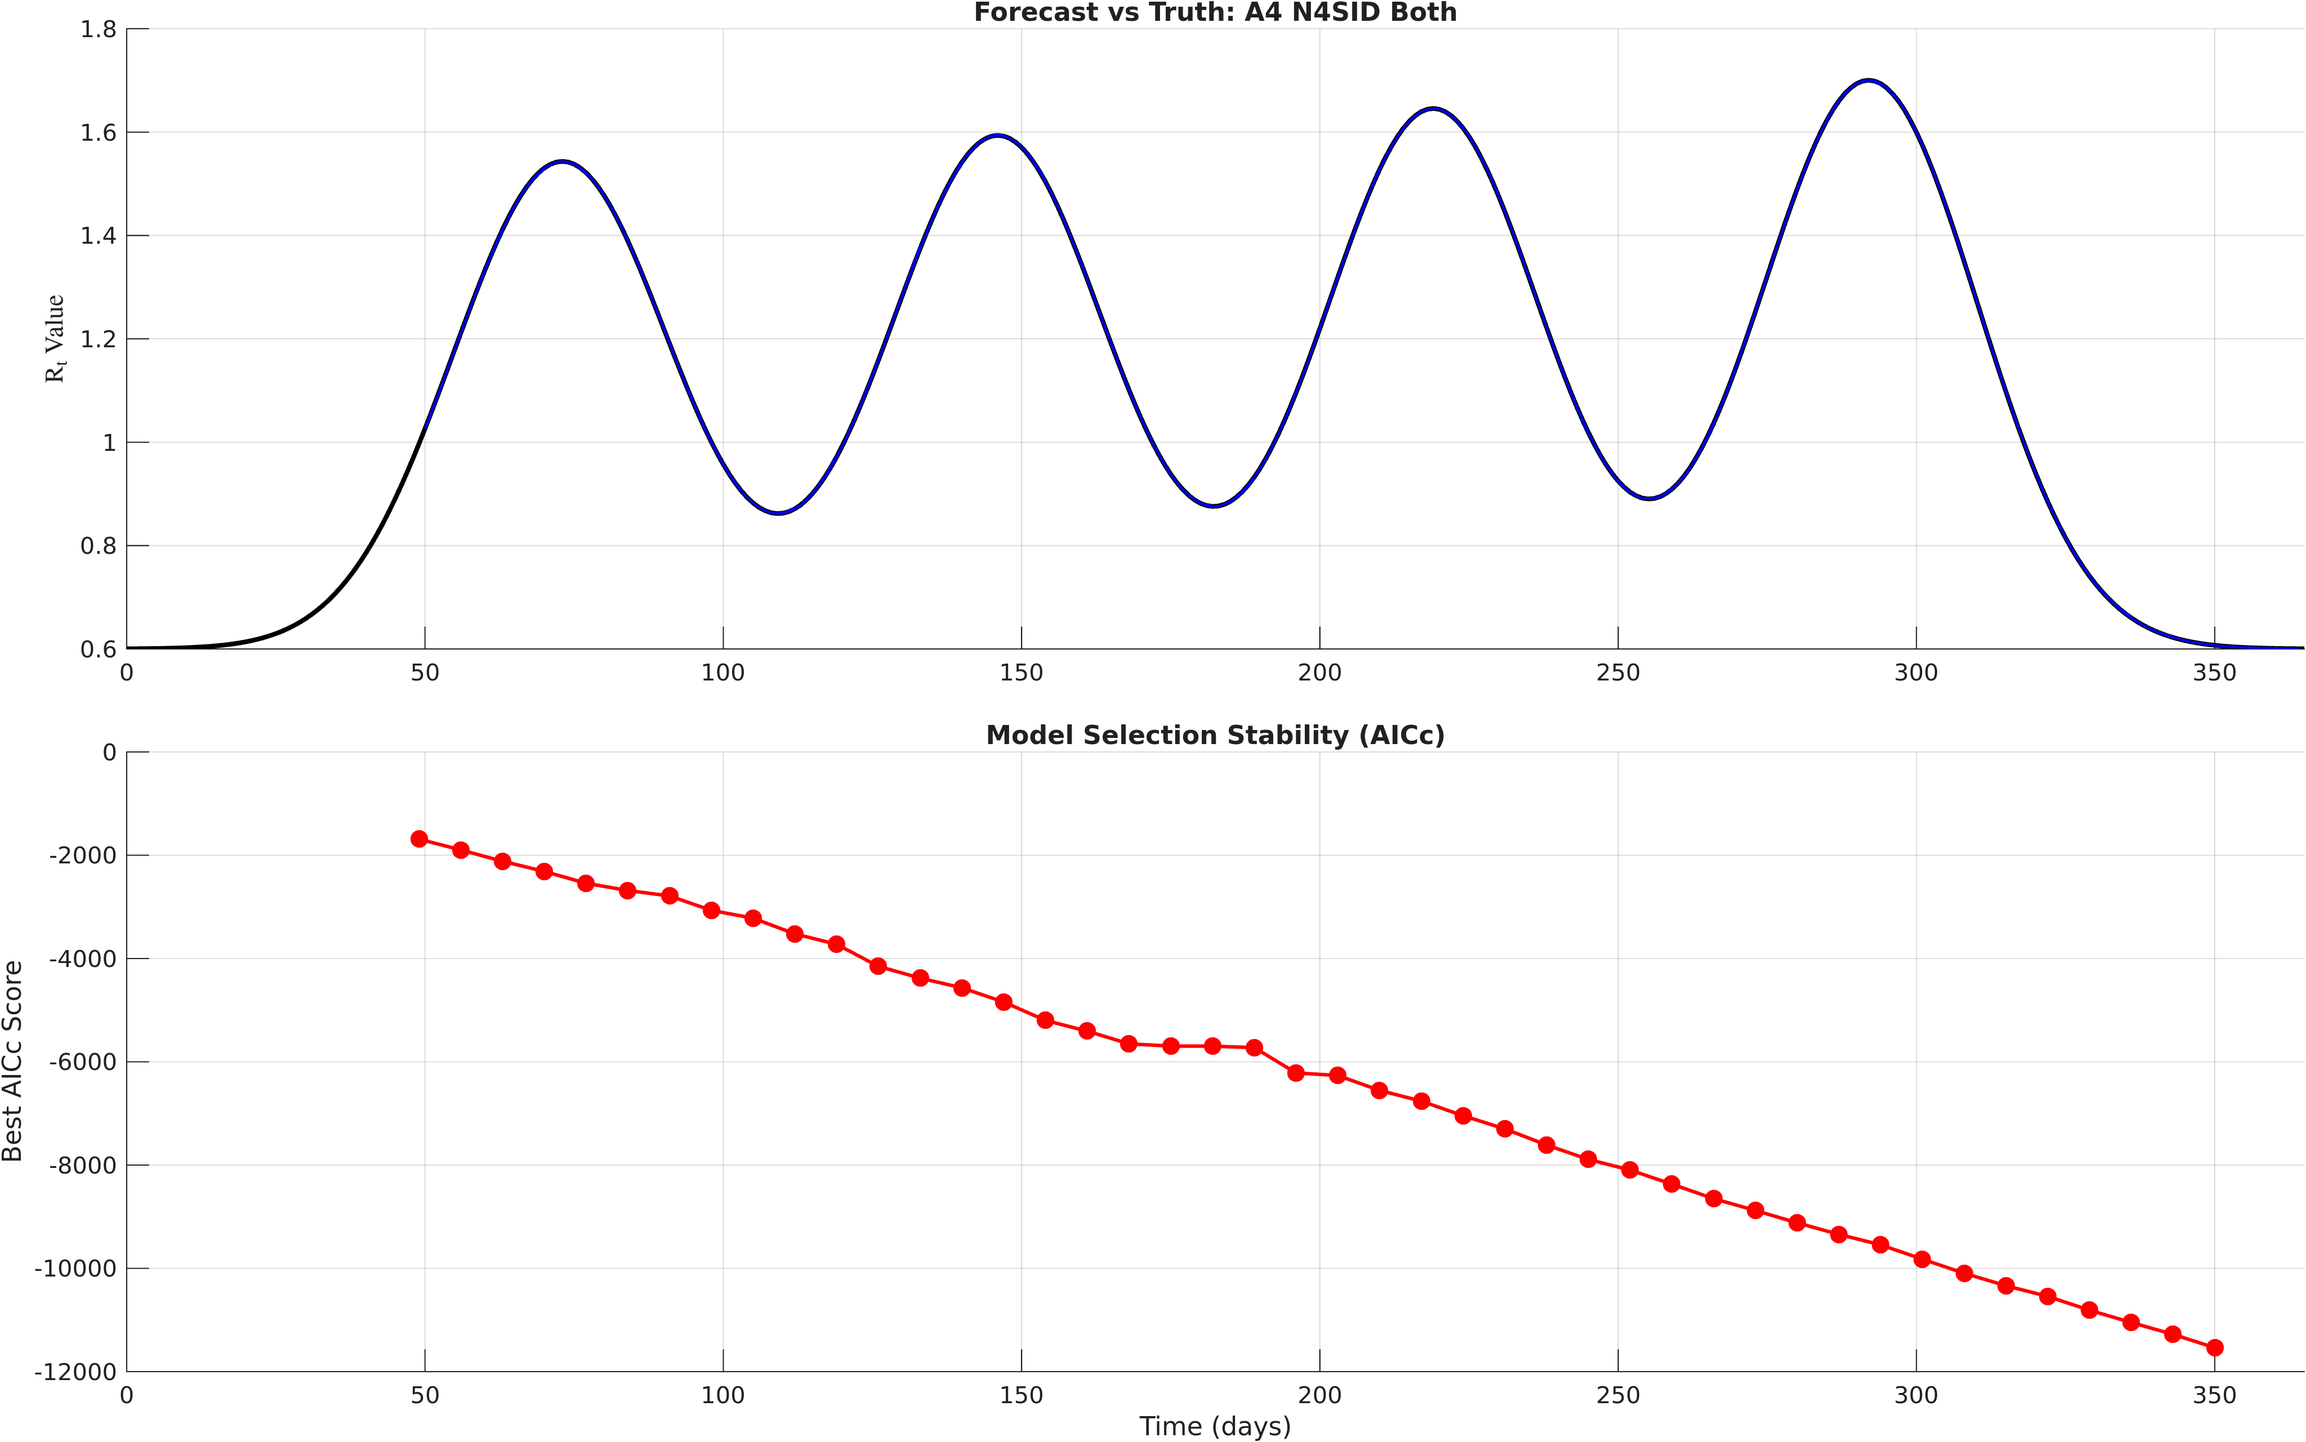
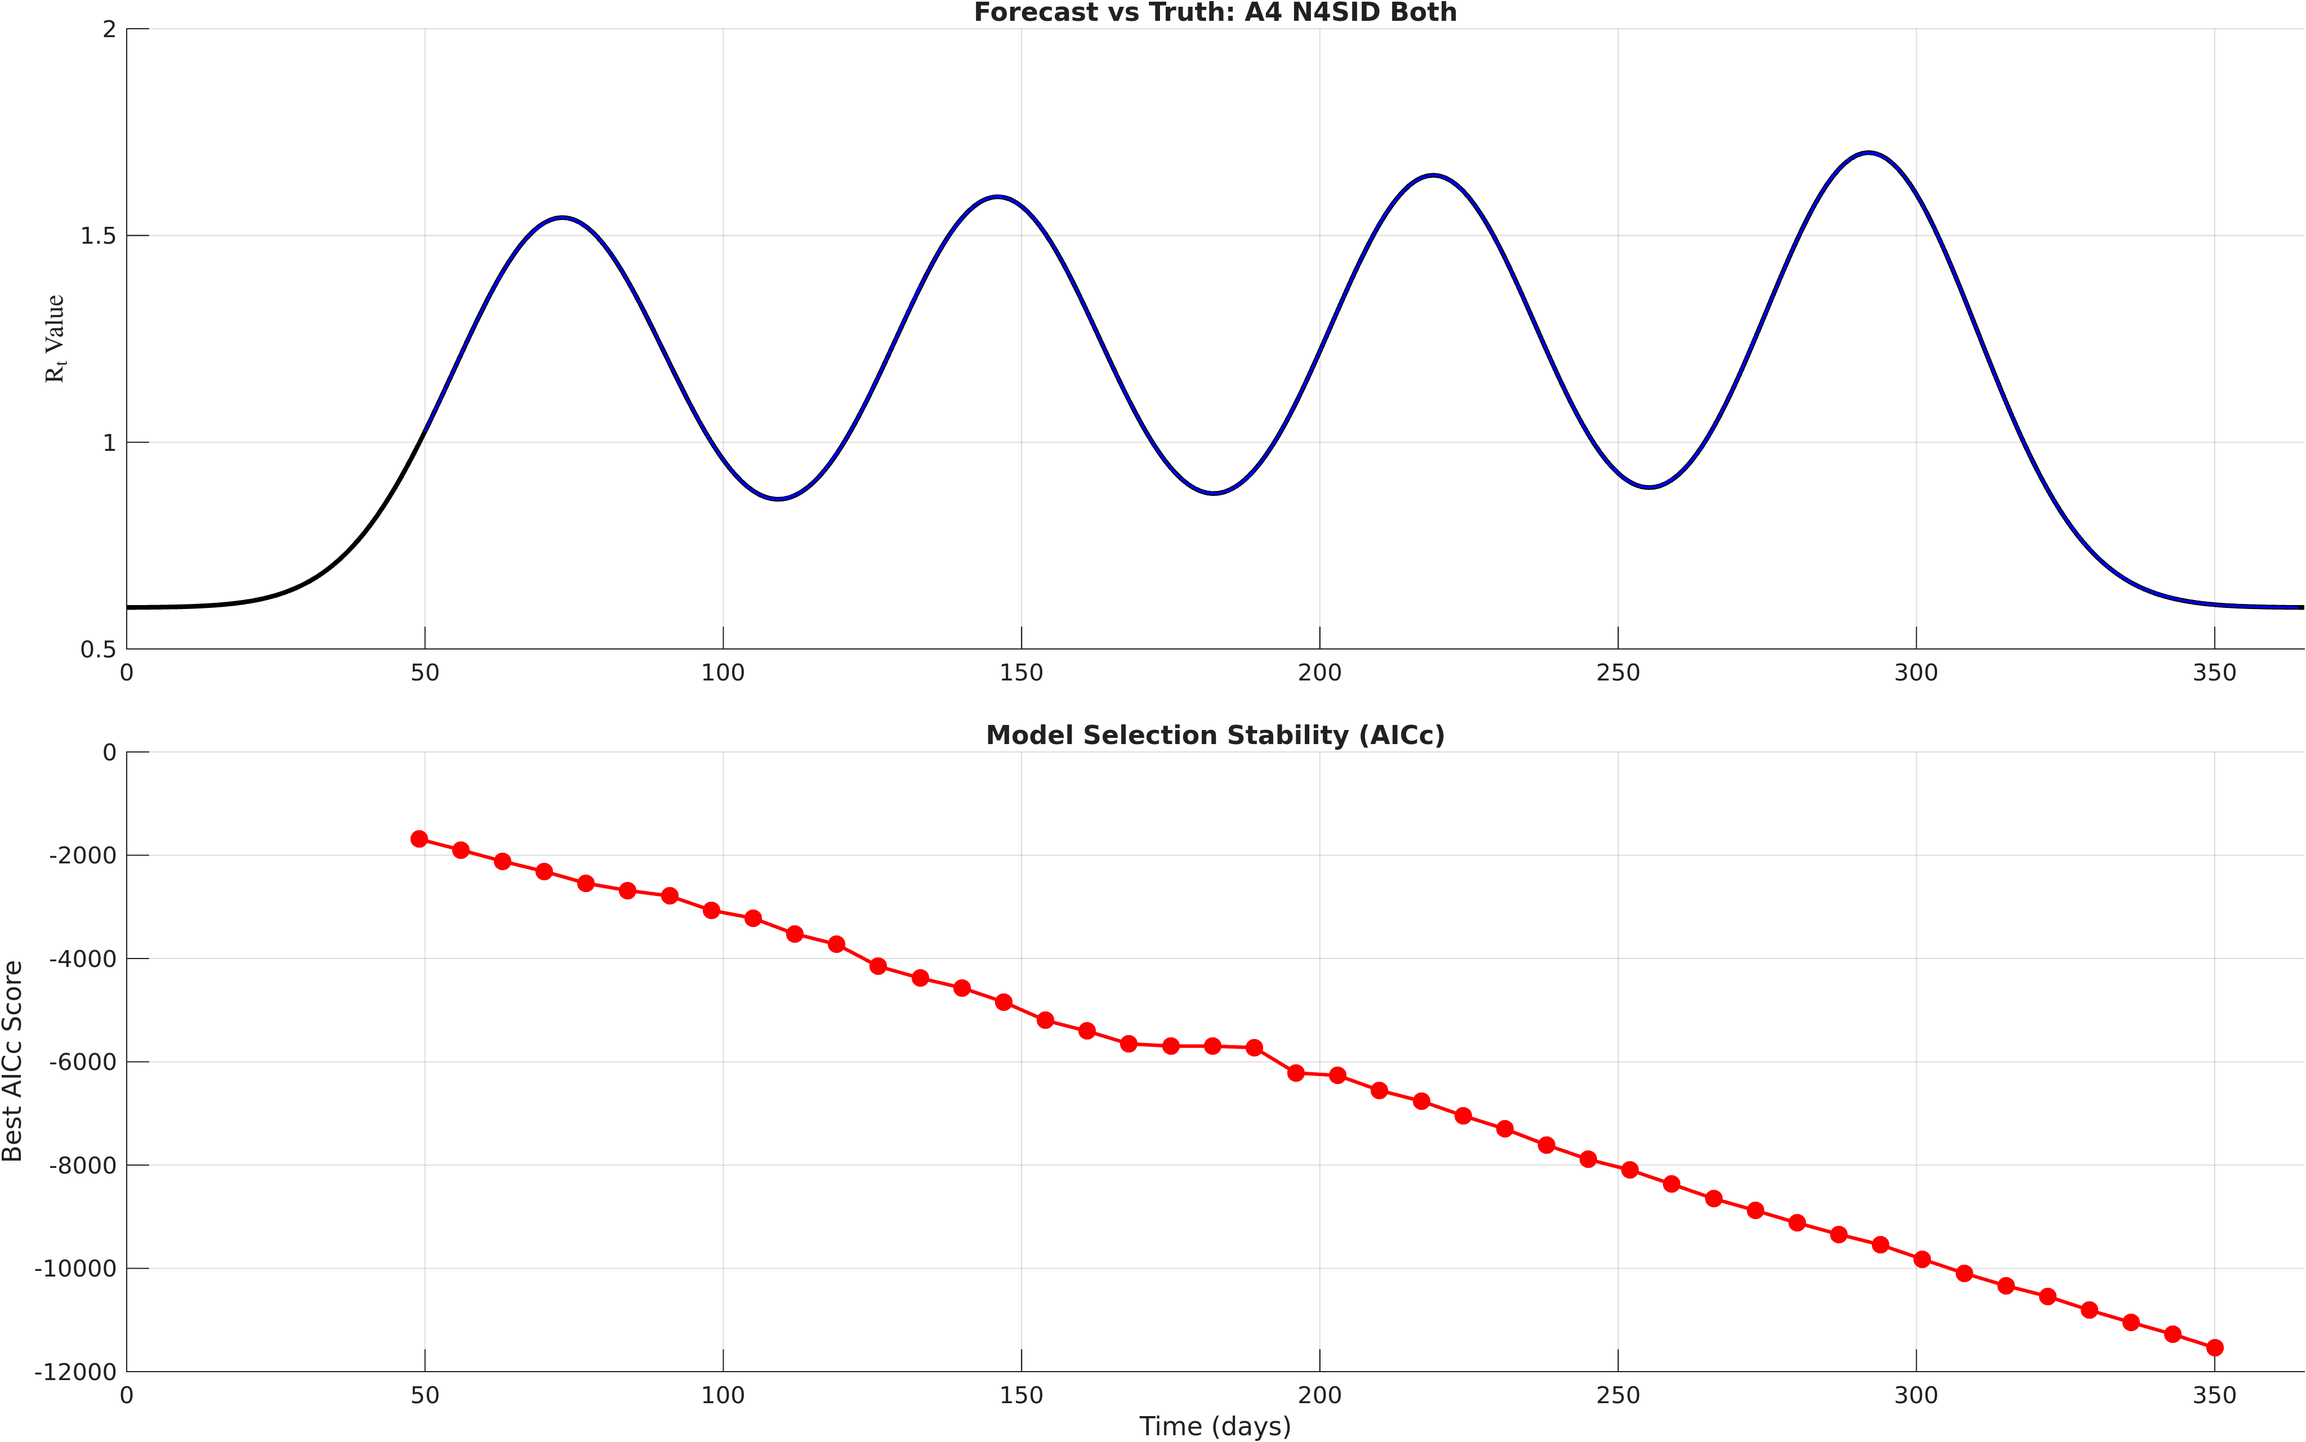
feat: Introduce a complete epidemic forecasting pipeline, including synthetic data generation, model training, evaluation, and result plotting.

diff --git a/scripts/partA_03_evaluate_models.m b/scripts/partA_03_evaluate_models.m
@@ -3,14 +3,13 @@
 %   Description:
 %       Aggregates and scores the performance of all forecasting models 
 %       generated by the unified forecast pipeline. Calculates Root Mean 
-%       Square Error (RMSE) and Mean Absolute Error (MAE) for every 
-%       expanding window, producing summary statistics and comparative 
-%       visualizations.
+%       Square Error (RMSE) for every expanding window, producing summary 
+%       statistics and comparative visualizations.
 %
 %   Workflow:
 %       1. Identify all forecast artifacts in the output directory.
 %       2. Parse filenames to extract Model Type, Exogenous Mode, and Scenario.
-%       3. Compute error metrics (RMSE, MAE) for every forecast window.
+%       3. Compute error metrics (RMSE) for every forecast window.
 %       4. Aggregate statistics to identify the optimal model configuration.
 %       5. Generate comparative boxplots via a dedicated plotting function.
 %
@@ -19,21 +18,20 @@
 % A. M. Kaahin 2026-02-19
 
 %% 1. Initialization
-clear; clc; close all;
+clear; close all; clc;
+
+fprintf('=== Model Evaluation ===\n');
 
 cfg = partA_config();
 forecastDir = cfg.output.forecast_dir;
 scoreDir    = cfg.output.score_dir;
 figDir      = cfg.output.fig_dir;
 
-% Ensure output directories exist
 if ~exist(scoreDir, 'dir'), mkdir(scoreDir); end
 if ~exist(figDir, 'dir'),   mkdir(figDir); end
 
-fprintf('Scanning for forecast results in: %s\n', forecastDir);
+fprintf('Scanning forecast directory: %s\n', forecastDir);
 
-% Pattern matches the taxonomy defined in partA_02_run_forecasts.m
-% Format: partA_02_forecast_[Scenario]_[Model]_[ExoMode].mat
 filePattern = fullfile(forecastDir, 'partA_02_forecast_*.mat');
 files       = dir(filePattern);
 
@@ -48,76 +46,67 @@ for i = 1:length(files)
     filename = files(i).name;
     fullPath = fullfile(forecastDir, filename);
     
-    % Parse Metadata from Filename
     [~, nameBody] = fileparts(filename);
     tokens = split(nameBody, '_');
     
-    % Validate filename structure before parsing
     if length(tokens) >= 6
         scenario_id = tokens{4};
         model_type  = tokens{5};
         exo_mode    = tokens{6};
     else
-        warning('Skipping file with non-standard naming: %s', filename);
+        warning('EVAL:BadNaming', 'Skipping file with non-standard naming: %s', filename);
         continue;
     end
     
-    % Load Data
     data = load(fullPath);
     if ~isfield(data, 'results')
-        warning('Skipping malformed file: %s', filename);
+        warning('EVAL:Malformed', 'Skipping malformed file: %s', filename);
         continue;
     end
     results = data.results;
     
-    % Compute Metrics per Window
     for k = 1:length(results)
         pred_Rt  = double(results(k).forecast_Rt(:));
         truth_Rt = double(results(k).truth_Rt_window(:));
         
-        % Calculate Residuals
         residuals = pred_Rt - truth_Rt;
         rmse_val  = sqrt(mean(residuals.^2));
-        mae_val   = mean(abs(residuals));
         
-        % Append to Registry
         newRow = { ...
             categorical(string(scenario_id)), ...
             categorical(string(model_type)), ...
             categorical(string(exo_mode)), ...
             results(k).window_day, ...
-            rmse_val, ...
-            mae_val ...
+            rmse_val ...
         };
         
         score_registry = [score_registry; newRow]; %#ok<AGROW>
     end
 end
 
-% Assign Standardized Variable Names
-score_registry.Properties.VariableNames = {'Scenario', 'Model', 'ExoMode', 'WindowDay', 'RMSE', 'MAE'};
+score_registry.Properties.VariableNames = {'Scenario', 'Model', 'ExoMode', 'WindowDay', 'RMSE'};
 
 fprintf('Aggregated scores for %d total forecast windows.\n', height(score_registry));
 
 %% 3. Summary Statistics
-% Group by Model Configuration (Model + ExoMode) and Scenario
 summary_stats = groupsummary(score_registry, ...
     {'Scenario', 'Model', 'ExoMode'}, ...
     {'mean', 'std', 'min', 'max'}, ...
-    {'RMSE', 'MAE'});
+    'RMSE');
 
-% Refine column names for report readability
 summary_stats.Properties.VariableNames = regexprep(summary_stats.Properties.VariableNames, ...
     {'mean_', 'std_', 'min_', 'max_'}, {'Mean_', 'Std_', 'Min_', 'Max_'});
 
-fprintf('\n=== PERFORMANCE SUMMARY (RMSE) ===\n');
+fprintf('\n  [ Performance Summary (RMSE) ]\n');
 disp(summary_stats(:, {'Scenario', 'Model', 'ExoMode', 'Mean_RMSE', 'Std_RMSE'}));
 
-% Persist Summary Table
 summaryFile = fullfile(scoreDir, 'partA_03_model_performance_summary.csv');
 writetable(summary_stats, summaryFile);
 fprintf('Summary statistics saved to: %s\n', summaryFile);
 
 %% 4. Visualization
-% Delegate visualization to dedicated plotting function
 plot_model_performance(score_registry, cfg);
+
+out_path = fullfile(cfg.output.fig_dir, 'partA_03_performance_boxplot.png');
+fprintf('Performance visualization saved to: %s\n', out_path);
+fprintf('=== Evaluation Complete ===\n\n');

diff --git a/scripts/partA_02_run_forecasts.m b/scripts/partA_02_run_forecasts.m
@@ -5,7 +5,8 @@
 %       ground truth data. Evaluates statistical (ARIMA, ARIMAX) and 
 %       State-Space (N4SID, SSEST) models. Future exogenous covariates 
 %       (Susceptible and Infected populations) are projected dynamically 
-%       using a deterministic compartmental solver to ensure causality.
+%       using the deterministic compartmental solver ('uds') to ensure 
+%       causality.
 %
 %   Workflow:
 %       1. Initialize experiment and model configurations.
@@ -18,16 +19,18 @@
 
 % A. M. Kaahin 2026-02-19
 
-%% Initialization
-clear; clc; close all;
+%% 1. Initialization
+clear; close all; clc;
 
-MODEL_TYPE = 'ARIMA'; 
+fprintf('=== Forecast Pipeline Execution ===\n');
+
+MODEL_TYPE = 'N4SID'; 
 EXO_MODE   = 'Both';    
 
 EXO_MODE = validate_configuration(MODEL_TYPE, EXO_MODE);
-fprintf('Starting %s forecast pipeline (Mode: %s)\n', MODEL_TYPE, EXO_MODE);
+fprintf('Configuration: Model = %s | Exogenous Mode = %s\n', MODEL_TYPE, EXO_MODE);
 
-%% Configuration and Grid Setup
+%% 2. Configuration and Grid Setup
 cfg      = partA_config(); 
 dataDir  = cfg.output.data_dir;     
 saveDir  = cfg.output.forecast_dir; 
@@ -35,12 +38,12 @@ fileList = dir(fullfile(dataDir, '*.mat'));
 
 switch MODEL_TYPE
     case 'ARIMA'
-        [P, D, Q] = ndgrid(0:14, [0, 1], 0:2);
+        [P, D, Q] = ndgrid(0:3, [0, 1], 0:2);
         candidate_models = [P(:), D(:), Q(:)];
         table_headers    = {'p', 'd', 'q', 'Times_Selected'};
         
     case 'ARIMAX'
-        [P, D, Q, NB, NK] = ndgrid(0:14, [0, 1], 0:2, 1:2, 1);
+        [P, D, Q, NB, NK] = ndgrid(0:3, [0, 1], 0:2, 1:2, 1);
         candidate_models  = [P(:), D(:), Q(:), NB(:), NK(:)];
         table_headers     = {'p', 'd', 'q', 'nb', 'nk', 'Times_Selected'};
         
@@ -56,14 +59,14 @@ if isempty(gcp('nocreate'))
     parpool; 
 end
 
-%% Evaluation Loop
+%% 3. Evaluation Loop
 for i = 1:length(fileList)
     filename = fileList(i).name;
     fullPath = fullfile(dataDir, filename);
     [~, name_core] = fileparts(filename);
     
     scenario_id = strrep(name_core, 'partA_01_truth_', '');
-    fprintf('\nProcessing Scenario: %s\n', scenario_id);
+    fprintf('  - Processing Scenario: %s...\n', scenario_id);
     
     loaded  = load(fullPath);
     Rt_true = loaded.Rt_true;
@@ -119,6 +122,7 @@ for i = 1:length(fileList)
             uds_params.I0      = current_I;
             uds_params.R0_init = current_R;
             uds_params.solver  = 'uds'; 
+            uds_params.compile = 0; 
             
             uds_mod = genData_SIRS(future_tspan, uds_params, cfg.sim.seed);
             
@@ -183,7 +187,7 @@ for i = 1:length(fileList)
         count = count + 1;
     end
     
-    %% Artifact Generation
+    %% 4. Artifact Generation
     [uq_models, ~, uq_idx] = unique(selected_models_log, 'rows');
     model_counts           = accumarray(uq_idx, 1);
     [model_counts, sort_count_idx] = sort(model_counts, 'descend');
@@ -203,16 +207,16 @@ for i = 1:length(fileList)
     plot_rt_forecast_comparison(results, Rt_true, tspan, plot_name, cfg);
 end
 
-fprintf('\nPipeline execution complete.\n');
+fprintf('=== Forecast Pipeline Complete ===\n\n');
 
-%% Local Functions
+%% 5. Local Functions
 function valid_exo_mode = validate_configuration(model_type, exo_mode)
 %VALIDATE_CONFIGURATION Resolve logical conflicts in configuration.
     valid_exo_mode = exo_mode;
     if strcmp(model_type, 'ARIMA') && ~strcmp(exo_mode, 'None')
-        warning('ARIMA is strictly autoregressive. Forcing EXO_MODE to ''None''.');
+        warning('CFG:ArimaExo', 'ARIMA is strictly autoregressive. Forcing EXO_MODE to None.');
         valid_exo_mode = 'None';
     elseif strcmp(model_type, 'ARIMAX') && strcmp(exo_mode, 'None')
-        error('ARIMAX requires exogenous covariates. Set EXO_MODE to ''S'', ''I'', or ''Both''.');
+        error('CFG:ArimaxExo', 'ARIMAX requires exogenous covariates. Set EXO_MODE to S, I, or Both.');
     end
 end

diff --git a/scripts/partA_01_generate_truth.m b/scripts/partA_01_generate_truth.m
@@ -9,6 +9,7 @@
 %   Workflow:
 %       1. Initialization
 %       2. Simulation Loop (Rt generation and stochastic modeling)
+%       3. Data Persistence
 %
 %   See also PARTA_CONFIG, PARTA_00_MAKE_SCENARIOS.
 
@@ -17,48 +18,47 @@
 %% 1. Initialization
 clear; close all; clc;
 
+fprintf('=== Synthetic Truth Generation ===\n');
+
 cfg = partA_config();
 t   = cfg.time.tspan;
 
-fprintf("=== Generating Synthetic Truth ===\n");
-
 %% 2. Simulation Loop
+fprintf('Saving trajectories to: %s\n', cfg.output.data_dir);
+
 for i = 1:numel(cfg.scenarios)
     slot = cfg.scenarios(i);
-    fprintf("Processing: %s (%s)... ", slot.id, slot.name);
+    fprintf('  - Processing %s (%s)... ', slot.id, slot.name);
 
-    params = cfg.sirs;
-
-    Rt_true = slot.generator(t, slot.params);
-
-    % Fundamental SIRS relationship: Beta(t) = Rt(t) * Gamma
+    params      = cfg.sirs;
+    Rt_true     = slot.generator(t, slot.params);
     params.beta = Rt_true .* params.gamma;
 
-    if isfield(slot.params, "I0")
+    if isfield(slot.params, 'I0')
         params.I0 = slot.params.I0;
     end
 
-    if isfield(slot.params, "R0_init")
+    if isfield(slot.params, 'R0_init')
         params.R0_init = slot.params.R0_init;
     end
 
     try
         umod = genData_SIRS(t, params, cfg.sim.seed);
     catch ME
-        fprintf("FAILED.\n");
-        warning("Simulation failed for %s: %s", slot.id, ME.message);
+        fprintf('FAILED.\n');
+        warning('SIM:Failure', 'Simulation failed for %s: %s', slot.id, ME.message);
         continue;
     end
 
-    % 3. Persistence
+    %% 3. Data Persistence
     S_true = umod.U(1, :);
     I_true = umod.U(2, :);
     tspan  = t;
 
-    outPath = fullfile(cfg.output.data_dir, sprintf("partA_01_truth_%s.mat", slot.id));
-    save(outPath, "umod", "Rt_true", "I_true", "S_true", "tspan", "params", "cfg");
+    outPath = fullfile(cfg.output.data_dir, sprintf('partA_01_truth_%s.mat', slot.id));
+    save(outPath, 'umod', 'Rt_true', 'I_true', 'S_true', 'tspan', 'params', 'cfg');
 
-    fprintf("Saved to %s\n", outPath);
+    fprintf('Saved\n');
 end
 
-fprintf("=== Generation Complete ===\n");
+fprintf('=== Truth Generation Complete ===\n\n');

diff --git a/scripts/partA_00_make_scenarios.m b/scripts/partA_00_make_scenarios.m
@@ -18,21 +18,25 @@
 %% 1. Initialization
 clear; close all; clc;
 
+fprintf('=== Scenario Generation ===\n');
+
 cfg = partA_config();
 t   = cfg.time.tspan;
 
 %% 2. Preallocation
 scenarios = repmat(struct( ...
-    "id",             "", ...
-    "class",          "", ...
-    "name",           "", ...
-    "t",              [], ...
-    "Rt",             [], ...
-    "params",         struct(), ...
-    "generator_name", "" ...
+    'id',             '', ...
+    'class',          '', ...
+    'name',           '', ...
+    't',              [], ...
+    'Rt',             [], ...
+    'params',         struct(), ...
+    'generator_name', '' ...
 ), 1, numel(cfg.scenarios));
 
 %% 3. Scenario Generation
+fprintf('Generating %d synthetic transmission rate (Rt) scenarios...\n', numel(cfg.scenarios));
+
 for i = 1:numel(cfg.scenarios)
     slot = cfg.scenarios(i);
 
@@ -49,3 +53,7 @@ end
 
 %% 4. Visualization
 plot_rt_scenarios(scenarios, cfg);
+
+fig_path = fullfile(cfg.output.fig_dir, 'partA_00_rt_scenarios.png');
+fprintf('Scenario visualization saved to: %s\n', fig_path);
+fprintf('=== Scenario Generation Complete ===\n\n');

diff --git a/src/plot/plot_rt_forecast_comparison.m b/src/plot/plot_rt_forecast_comparison.m
@@ -64,6 +64,10 @@ function plot_rt_forecast_comparison(results, Rt_true, tspan, plot_name, cfg)
     ylabel(ax1, "R_t Value");
     grid(ax1, "on");
     legend(ax1, "show", "Location", "best");
+
+    if isfield(cfg, "Rt") && isfield(cfg.Rt, "bounds")
+        ylim(ax1, cfg.Rt.bounds);
+    end
     
     % Align X-limits to data
     xlim(ax1, [tspan(1), tspan(end)]);
@@ -86,6 +90,5 @@ function plot_rt_forecast_comparison(results, Rt_true, tspan, plot_name, cfg)
     xlim(ax2, [tspan(1), tspan(end)]);
     
     %% 3. Persistence
-    % Match the resolution of plot_rt_scenarios (or use 300 for higher quality)
     exportgraphics(fig, outPath, "Resolution", 300);
 end

diff --git a/src/plot/plot_rt_scenarios.m b/src/plot/plot_rt_scenarios.m
@@ -17,8 +17,7 @@ function plot_rt_scenarios(scenarios, cfg)
 % A. M. Kaahin 2026-02-18
 
     %% 1. Initialization
-    figDirAbs = cfg.output.fig_dir;
-    outPath   = fullfile(figDirAbs, "partA_00_rt_scenarios.png");
+    outPath   = fullfile(cfg.output.fig_dir, "partA_00_rt_scenarios.png");
 
     %% 2. Visualization
     fig = figure("Name", "Synthetic Rt Scenarios (Part A)", "Visible", "off");

diff --git a/src/plot/plot_model_performance.m b/src/plot/plot_model_performance.m
@@ -62,5 +62,4 @@ function plot_model_performance(score_registry, cfg)
     % Save Artifact
     out_path = fullfile(cfg.output.fig_dir, 'partA_03_performance_boxplot.png');
     exportgraphics(fig, out_path, 'Resolution', 300);
-    fprintf('Performance visualization saved to: %s\n', out_path);
 end
